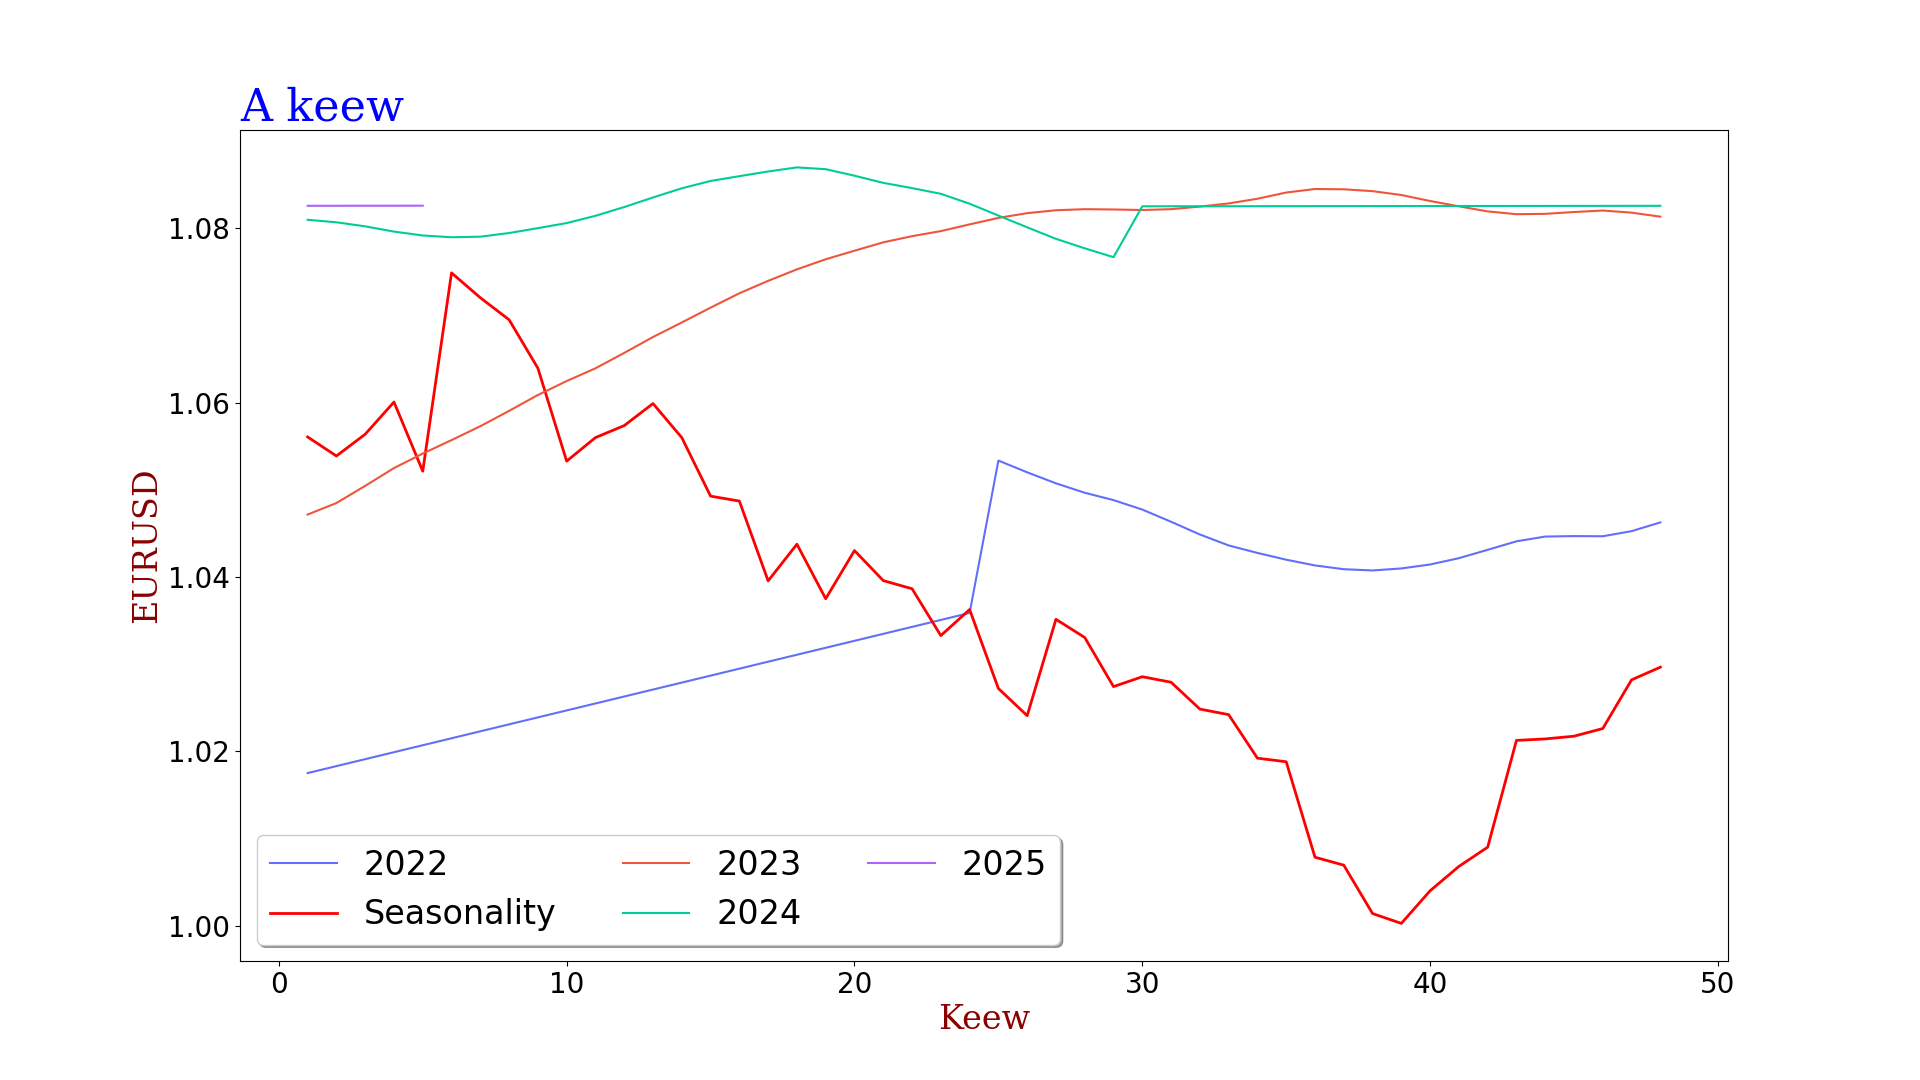
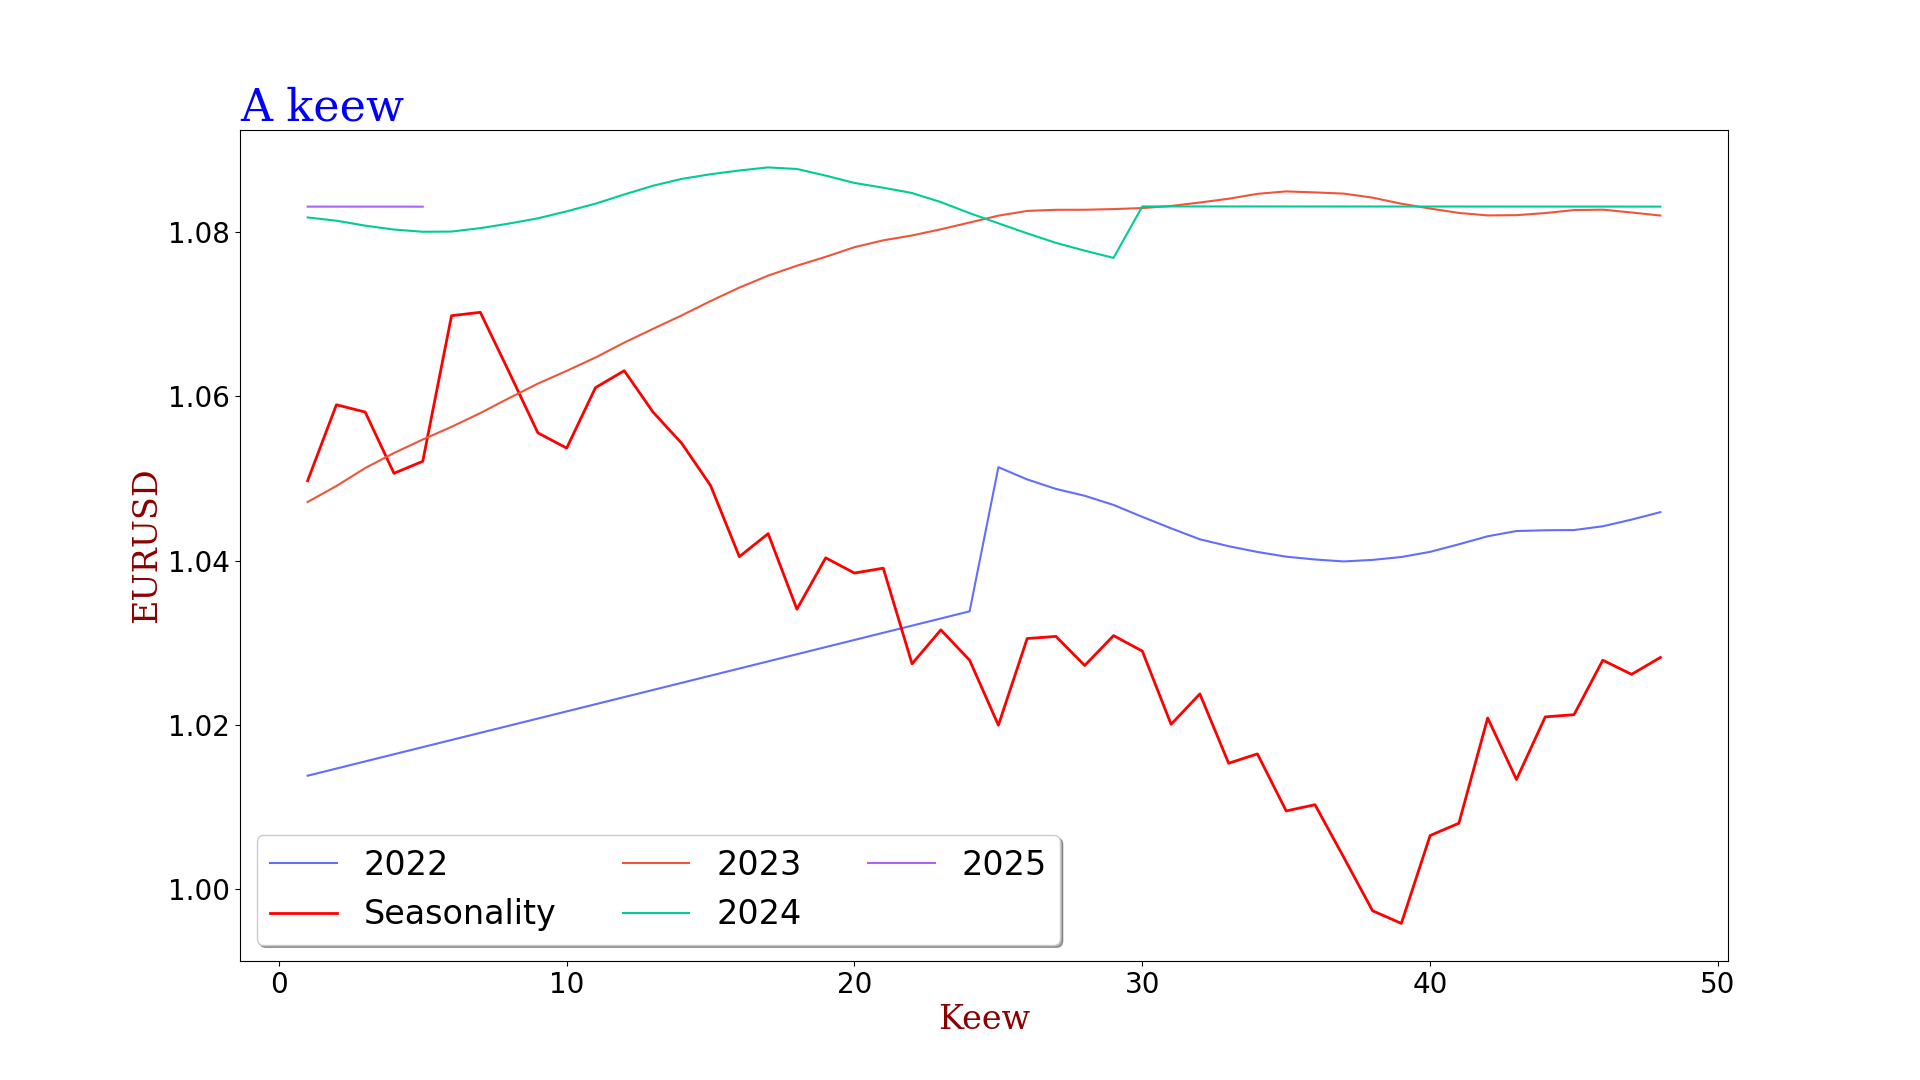
Fixed pct_change calculations

diff --git a/Python/src/fx_data/keew_decomp.py b/Python/src/fx_data/keew_decomp.py
@@ -24,6 +24,7 @@ class KeewDecomp(metaclass=SingletonMeta):
         self.decomp.df = self.jr.df.copy()
         self.decomp.df['KeewMonth'] = self.decomp.df['Date'].apply(self.decomp.get_month_keew)
         self.decomp.df['Keew'] = (self.decomp.df['Month']-1)*4+self.decomp.df['KeewMonth']
+        self.decomp.df = self.decomp.df.sort_values(by=['Year', 'Keew', 'Date'], ascending=[True, True, True])
         self.decomp.df = self.decomp.df.groupby(['Year', 'Keew']).last().reset_index()
         
         self.decomp.features = self.jr.m_currency_pairs
@@ -55,9 +56,12 @@ class KeewDecomp(metaclass=SingletonMeta):
         if m_next_keew > 48:
             m_next_keew = 1
         # calculate the min, max and mean of the keew and next keew data for the pairs and add it to the dictionary
+        self.df = self.df.sort_values(by=['Year', 'Keew', 'Date'], ascending=[True, True, True])
         self.df = self.df.groupby(['Year', 'Keew']).last().reset_index()
         # calculate the percentage change of the keew and next keew data for the pairs and add it to the dictionary
-        self.df_pct = self.df.pct_change()
+        self.df_pct = self.df.copy()
+        for pair in self.jr.m_currency_pairs:
+            self.df_pct[pair] = self.df[pair].pct_change()*100
 
         for pair in self.jr.m_currency_pairs:
             stats = {}

diff --git a/Python/src/fx_data/json_reader.py b/Python/src/fx_data/json_reader.py
@@ -10,7 +10,7 @@ class JSONReader(metaclass=SingletonMeta):
     A Singleton class to read JSON files into pandas DataFrames.
     """
     def __init__(self):
-        self.df = None
+        self.df = pd.DataFrame()
         self.m_child_message = None
         self.m_dir = None
         self.lCurrencies = []
